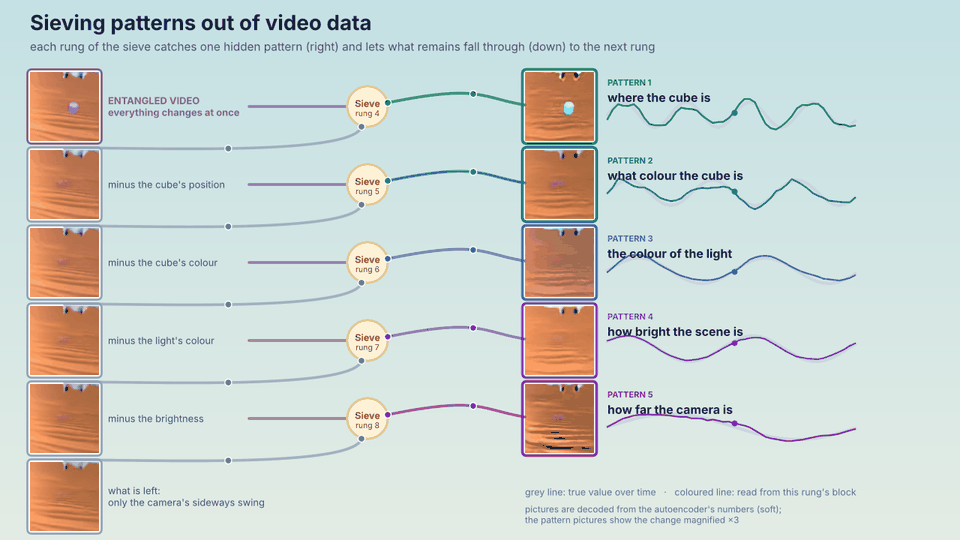
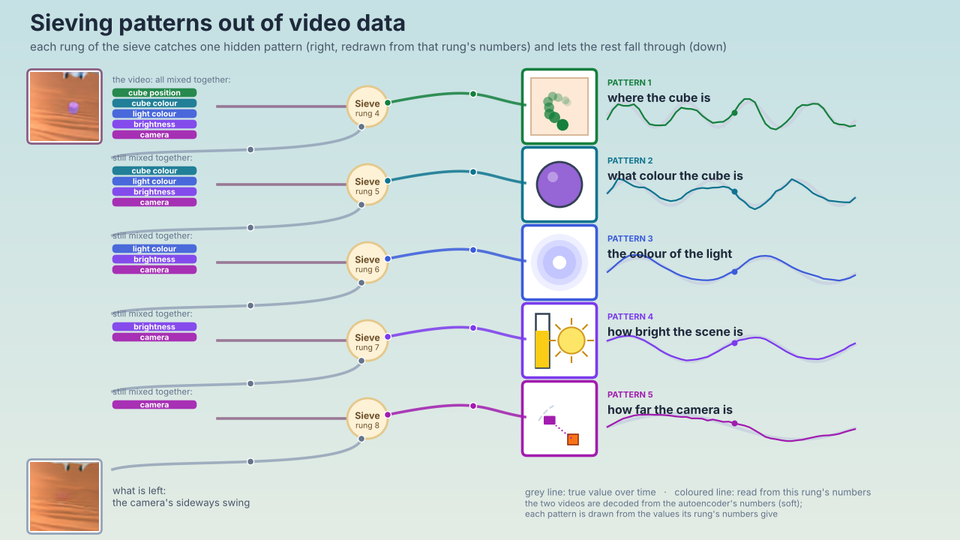
Sieve clip: patterns drawn as simple glyphs read from each rung's numbers

diff --git a/experiments/factors/make_sieve_glyph_gif.py b/experiments/factors/make_sieve_glyph_gif.py
@@ -1,0 +1,86 @@
+"""Sieve clip, clearer version: the pattern each rung catches is shown as a simple animated glyph driven by the values read from that rung's block
+(a dot on a table, a colour swatch, a lamp colour, a brightness meter, a camera on an arc), not as a decoded video. Real videos appear only at the start and the end.
+    PYTHONPATH=src:experiments/factors python make_sieve_glyph_gif.py -> docs/img/video_sieve_flow.gif"""
+import io, numpy as np, torch, matplotlib
+matplotlib.use("Agg"); import matplotlib.pyplot as plt
+from matplotlib.patches import Circle, FancyBboxPatch, Rectangle, Polygon
+from PIL import Image
+from isj import audits
+from train_ae import AE
+B = torch.load("results/e62/blocks.pt"); OFF = np.cumsum([0, 1, 2, 1, 2, 3, 2, 1, 2, 1])
+ae = AE(); ae.load_state_dict(B["ae"]); ae.eval(); mean, mat = B["mean"].double(), B["matrix"].double(); inv = torch.linalg.inv(mat)
+enc = lambda x: ae.encode(torch.from_numpy(x).permute(0, 3, 1, 2).float() / 255).detach().double()
+C = np.load("data/e62/clip.npz"); Xc, Fc = C["x"], C["f"]; T = len(Xc); Zc = enc(Xc); Wc = (Zc - mean) @ mat; wbar, zbar = Wc.mean(0), Zc.mean(0)
+P = np.load("data/e62/probe.npz"); Zp = torch.cat([enc(P["x"][i:i + 500]) for i in range(0, len(P["x"]), 500)]); Wp = (Zp - mean) @ mat; Fp = torch.from_numpy(P["f"]).double()
+blocks = [b.double() for b in B["blocks"]]; dec = lambda z: ae.decode(z.float()).permute(0, 2, 3, 1).detach().numpy()
+comps = [(Wc - wbar) @ b @ b.T for b in blocks]; EXTR = [3, 4, 5, 6, 7]
+rem0 = dec(zbar + (Wc - wbar) @ inv); rem5 = dec(zbar + ((Wc - wbar) - sum(comps)) @ inv)         # real videos: everything, and what is left once all five patterns are taken out
+def read(g):                                                        # values of factor group g, read from rung g's block (ridge fitted on the probe set)
+    V = blocks[g]; X = Wp @ V; outs = []
+    for j in range(OFF[g], OFF[g + 1]):
+        y = (Fp[:, j] - Fp[:, j].mean()) / Fp[:, j].std(); w = audits.ridge_fit(X[:6000], y[:6000, None]); p = (torch.cat([Wc @ V, torch.ones(T, 1, dtype=torch.double)], 1) @ w).squeeze(1)
+        outs.append((p * Fp[:, j].std() + Fp[:, j].mean()).numpy())
+    return np.stack(outs, 1)
+vals = {g: read(g) for g in EXTR}; true = {g: Fc[:, OFF[g]:OFF[g + 1]] for g in EXTR}
+names = ["where the cube is", "what colour the cube is", "the colour of the light", "how bright the scene is", "how far the camera is"]
+short = ["cube position", "cube colour", "light colour", "brightness", "camera"]; cols = ["#15803d", "#0e7490", "#3b5bdb", "#7c3aed", "#a21caf"]
+LO = np.array([0.0, -1, -1, -np.pi / 2, -0.06, -0.06, 0.1, 0.1, 0.1, -0.4, -0.4, 0.25, 0.38, 0.6, -0.5]); HI = np.array([0.04, 1, 1, np.pi / 2, 0.06, 0.06, 1, 1, 1, 0.4, 0.4, 0.75, 0.52, 0.95, 0.5])
+def glyph(ax, i, t, x0, y0, S=92):
+    g = EXTR[i]; v = vals[g][t]; cx, cy = x0 + S / 2, y0 + S / 2
+    if i == 0:                                                      # cube position: a dot on a table, with a short trail
+        ax.add_patch(Rectangle((x0 + 8, y0 + 8), S - 16, S - 16, fc="#fde9d6", ec="#d9b99b", lw=1.5, zorder=3))
+        for k in range(8, -1, -1):
+            tt = max(0, t - k); p = vals[3][tt]; px, py = cx + p[0] / 0.06 * 30, cy + p[1] / 0.06 * 30
+            ax.add_patch(Circle((px, py), 5 + (8 - k) * .35, fc=cols[0], alpha=.15 + .1 * (8 - k) if k else 1, ec="none", zorder=4))
+    elif i == 1:                                                    # colour: a swatch
+        c = np.clip((v - LO[6:9]) / (HI[6:9] - LO[6:9]), 0, 1) * .9 + .1; c = np.clip(v, 0, 1)
+        ax.add_patch(Circle((cx, cy), 30, fc=c, ec="#334155", lw=2, zorder=4)); ax.add_patch(Circle((cx - 9, cy - 10), 7, fc="white", alpha=.35, ec="none", zorder=5))
+    elif i == 2:                                                    # light colour: a glowing lamp tint
+        c = np.array([1 + v[0], 1.0, 1 + v[1]]); c = np.clip(c / c.max(), 0, 1)
+        for r_, a in ((38, .25), (30, .45), (22, .8)): ax.add_patch(Circle((cx, cy), r_, fc=c, alpha=a, ec="none", zorder=3))
+        ax.add_patch(Circle((cx, cy), 9, fc="white", ec="none", zorder=5))
+    elif i == 3:                                                    # brightness: a meter and a sun
+        lvl = np.clip((v[0] - .25) / .5, 0, 1)
+        ax.add_patch(Rectangle((x0 + 14, y0 + 10), 18, S - 20, fc="white", ec="#334155", lw=1.8, zorder=3)); ax.add_patch(Rectangle((x0 + 14, y0 + 10 + (S - 20) * (1 - lvl)), 18, (S - 20) * lvl, fc="#facc15", ec="none", zorder=4))
+        ax.add_patch(Circle((x0 + 62, cy), 8 + 14 * lvl, fc="#fde047", alpha=.55 + .4 * lvl, ec="#ca8a04", lw=1.5, zorder=4))
+        for a in np.linspace(0, 2 * np.pi, 9)[:-1]: ax.plot([x0 + 62 + (12 + 14 * lvl) * np.cos(a), x0 + 62 + (17 + 18 * lvl) * np.cos(a)], [cy + (12 + 14 * lvl) * np.sin(a), cy + (17 + 18 * lvl) * np.sin(a)], color="#ca8a04", lw=1.5, zorder=4)
+    else:                                                           # camera: a camera on an arc around the scene (distance and elevation)
+        ox, oy = x0 + 64, y0 + S - 18; r = 22 + (v[0] - .38) / .14 * 30; e = v[1]; px, py = ox - r * np.cos(e), oy - r * np.sin(e)
+        ax.add_patch(Rectangle((ox - 7, oy - 7), 14, 14, fc="#f97316", ec="#9a3412", lw=1.2, zorder=4)); th = np.linspace(0.5, 1.05, 20); ax.plot(ox - 52 * np.cos(th), oy - 52 * np.sin(th), color="#cbd5e1", lw=1.5, ls="--", zorder=3)
+        ax.plot([px, ox], [py, oy], color="#a21caf", lw=1.4, ls=":", zorder=4); ax.add_patch(FancyBboxPatch((px - 8, py - 6), 16, 12, boxstyle="round,pad=0.5,rounding_size=2", fc="#a21caf", ec="white", zorder=5))
+BGTOP, BGBOT = np.array([197, 225, 229]) / 255, np.array([227, 236, 228]) / 255
+bg = (BGTOP[None, None, :] * (1 - np.linspace(0, 1, 64)[:, None, None]) + BGBOT[None, None, :] * np.linspace(0, 1, 64)[:, None, None]) * np.ones((64, 2, 3))
+def bez(p0, p1, p2, p3, n=60):
+    t = np.linspace(0, 1, n)[:, None]; return (1 - t) ** 3 * p0 + 3 * (1 - t) ** 2 * t * p1 + 3 * (1 - t) * t ** 2 * p2 + t ** 3 * p3
+W, H, TH, DY, Y0 = 1280, 720, 92, 104, 96; frames = []
+for t in range(T):
+    fig = plt.figure(figsize=(12.8, 7.2), dpi=100); ax = fig.add_axes([0, 0, 1, 1]); ax.set_xlim(0, W); ax.set_ylim(H, 0); ax.axis("off"); ax.imshow(bg, extent=(0, W, H, 0), aspect="auto", zorder=0)
+    ax.text(40, 30, "Sieving patterns out of video data", fontsize=22, fontweight="bold", color="#1e293b", va="center", zorder=5)
+    ax.text(40, 62, "each rung of the sieve catches one hidden pattern (right, redrawn from that rung's numbers) and lets the rest fall through (down)", fontsize=11, color="#475569", va="center", zorder=5)
+    for i in range(6):
+        y = Y0 + i * DY; yc = y + TH / 2
+        if i in (0, 5):                                              # real video thumbnails: the whole video, and what is left at the end
+            ax.add_patch(FancyBboxPatch((37, y - 3), TH + 6, TH + 6, boxstyle="round,pad=0.5,rounding_size=6", fc="white", ec="#8b5e83" if i == 0 else "#94a3b8", lw=2, zorder=1)); ax.imshow((rem0 if i == 0 else rem5)[t], extent=(40, 40 + TH, y + TH, y), interpolation="bilinear", zorder=2)
+        if i == 5: ax.text(150, yc, "what is left:\nthe camera's sideways swing", fontsize=9.5, color="#475569", va="center", zorder=5)
+        if i < 5:                                                    # pills: the patterns still mixed together at this level
+            for k, j in enumerate(range(i, 5)):
+                ax.add_patch(FancyBboxPatch((150, y + 24 + k * 14 + (0 if i else 6), ) if False else (150, y + 22 + k * 14), 112, 11, boxstyle="round,pad=0.3,rounding_size=5", fc=cols[j], ec="none", alpha=.9, zorder=3)); ax.text(206, y + 27.5 + k * 14, short[j], fontsize=7.6, color="white", ha="center", va="center", zorder=4, fontweight="bold")
+            ax.text(150, y + 10, "still mixed together:" if i else "the video: all mixed together:", fontsize=8.3, color="#64748b", va="center", zorder=4)
+        if i == 5: continue
+        col = cols[i]; nx = 490; n_ = np.array([nx, yc])
+        ax.plot(*bez(np.array([290, yc]), np.array([nx - 100, yc]), np.array([nx - 50, yc]), n_).T, color="#8b5e83", lw=2.6, alpha=.8, zorder=3)
+        ax.add_patch(Circle((nx, yc), 27, fc="#fdf1d6", ec="#e4c88b", lw=2, zorder=4)); ax.text(nx, yc - 4, "Sieve", fontsize=9, ha="center", va="center", fontweight="bold", color="#6b4f2a", zorder=5); ax.text(nx, yc + 9, f"rung {EXTR[i]+1}", fontsize=7.5, ha="center", va="center", color="#6b4f2a", zorder=5)
+        up = bez(n_ + [27, -5], n_ + [150, -30], np.array([640, yc - 12]), np.array([700, yc - 2])); ax.plot(up[:, 0], up[:, 1], color=col, lw=2.6, alpha=.85, zorder=3)
+        down = bez(n_ + [-8, 27], n_ + [-20, 70], np.array([200, y + DY - 6]), np.array([150, y + DY + 10])); ax.plot(down[:, 0], down[:, 1], color="#94a3b8", lw=2.6, alpha=.85, zorder=3)
+        for path, c in ((up, col), (down, "#64748b")):
+            for ph in (0, .5): p = path[int(((t / T * 3 + ph) % 1) * 59)]; ax.add_patch(Circle(p, 4.5, fc=c, ec="white", lw=1, zorder=6))
+        xr = 700; ax.add_patch(FancyBboxPatch((xr - 3, y - 3), TH + 6, TH + 6, boxstyle="round,pad=0.5,rounding_size=6", fc="white", ec=col, lw=2.6, zorder=1)); glyph(ax, i, t, xr, y)
+        ax.text(xr + TH + 18, y + 14, f"PATTERN {i+1}", fontsize=8, color=col, fontweight="bold", va="center", zorder=5); ax.text(xr + TH + 18, y + 34, names[i], fontsize=11.5, color="#1e293b", va="center", fontweight="bold", zorder=5)
+        g = EXTR[i]; tr, pr = true[g][:, 0], vals[g][:, 0]; tx0, tw, th = xr + TH + 18, 330, 34; lo, hi = tr.min(), tr.max(); sx = lambda a: tx0 + a * tw / (T - 1); sy = lambda v_: np.clip(y + 74 - (v_ - lo) / (hi - lo + 1e-9) * th, y + 36, y + 80)
+        ax.plot(sx(np.arange(T)), sy(tr), color="#cbd5e1", lw=3, zorder=3); ax.plot(sx(np.arange(T)), sy(pr), color=col, lw=1.6, zorder=4); ax.scatter([sx(t)], [sy(pr[t])], color=col, s=22, zorder=5)
+    ax.text(700, Y0 + 5 * DY + 40, "grey line: true value over time   ·   coloured line: read from this rung's numbers", fontsize=9, color="#64748b", va="center", zorder=5)
+    ax.text(700, 678, "the two videos are decoded from the autoencoder's numbers (soft);\neach pattern is drawn from the values its rung's numbers give", fontsize=8.3, color="#64748b", va="center", zorder=5)
+    b_ = io.BytesIO(); fig.savefig(b_, format="png", dpi=100); plt.close(fig); b_.seek(0); frames.append(Image.open(b_).convert("RGB").resize((960, 540), Image.LANCZOS))
+Image.fromarray(np.concatenate([np.array(frames[i]) for i in (0, 12, 30)], 0)).save("/tmp/sieve_check.png")
+frames[0].save("docs/img/video_sieve_flow.gif", save_all=True, append_images=frames[1:], duration=95, loop=0, optimize=True)
+frames[24].save("docs/img/video_sieve_flow_strip.png"); print(len(frames), "frames")
